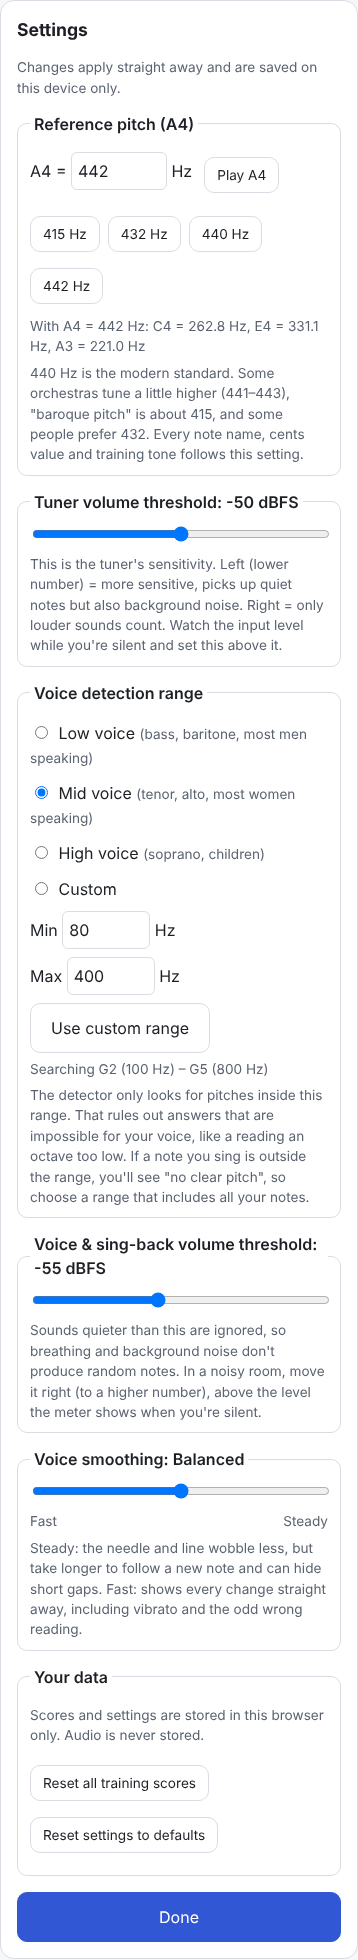
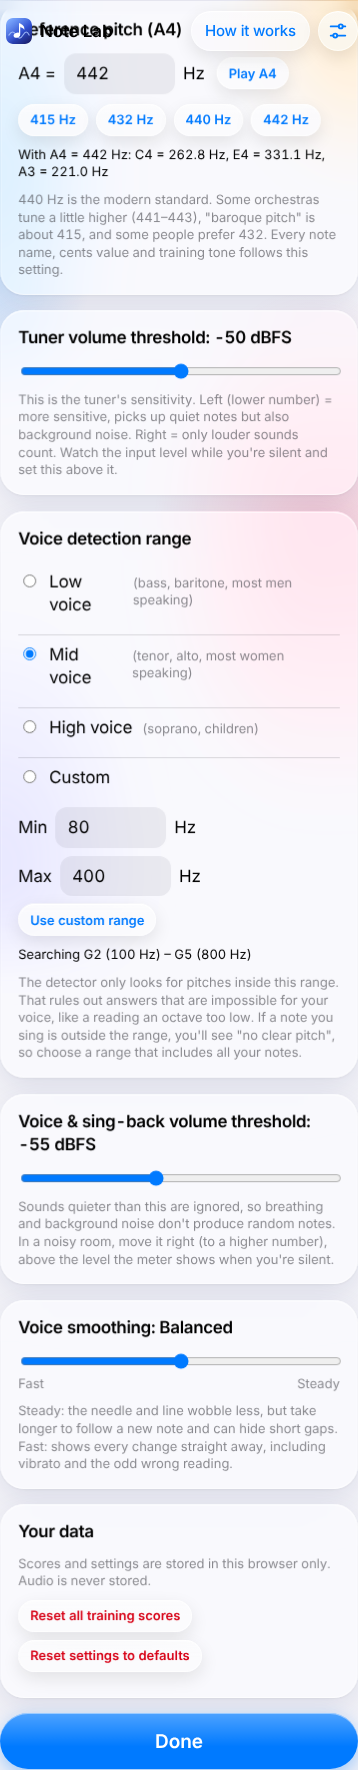
Document the Liquid Glass look and refresh screenshots
Claude-Session: https://claude.ai/code/session_01SxLsZFKHC9uUtv3xK6kA73

diff --git a/README.md b/README.md
@@ -28,6 +28,25 @@ are saved, in your own browser.
 
 *Screenshots from the automated Chromium test, with generated test sounds as the "microphone".*
 
+## Look
+
+Note Lab uses the same **Liquid Glass** theme as the other web apps:
+`css/glass.css` is copied unchanged from msfs-buddy's `src/shared/glass.css`
+(originally from Light Scout), and only Note Lab's own pieces live in
+`css/style.css`.
+
+- **Frosted glass cards** float over a soft, slowly drifting coloured light.
+  Buttons, the segmented control and the top-bar capsules are clearer glass
+  that springs when pressed. The tuner's reading sits on a lit blue pane.
+- **The four modes are in a floating glass tab bar** at the bottom (thumb
+  reach on a phone). Settings and *How it works* are capsules in the top bar,
+  and each page has a large title, like iOS apps.
+- Apple's system colours and font (SF Pro on Apple devices). It follows
+  **light or dark mode**, and honours **Reduce Transparency** (solid surfaces
+  instead of glass) and **Reduce Motion** (no drift or spring).
+- Inspired by Apple's current design language; the tab icons and app icon are
+  this project's own drawings.
+
 ## Getting it running
 
 - **On your computer:** `npm start`, then open <http://localhost:8000>.
@@ -118,8 +137,8 @@ Scores are saved on the device; reset them on the Settings page.
 
 ### Settings and the "How it works" page
 
-**⚙ Settings** (top of the page) holds everything adjustable, saved on the
-device:
+**Settings** (the sliders button, top right) holds everything adjustable,
+saved on the device:
 - **Reference pitch (A4)**, 400–480 Hz: quick choices 415 / 432 / 440 / 442,
   a preview of what that does to other notes, and *Play A4*. Every note name,
   cents value and training tone follows it.
@@ -502,7 +521,8 @@ node tools/make-icons.js            # optional; re-render the icons (needs Playw
 ```
 index.html, how-it-works.html   the app and the beginner's guide
 manifest.json, sw.js, icons/     install + offline
-css/style.css                    all styles (light and dark)
+css/glass.css                    shared Liquid Glass design (copied unchanged from msfs-buddy)
+css/style.css                    Note Lab's own styles on top of it
 js/pitch-math.js                 ★ frequency ↔ note maths (start here)
 js/yin.js, js/smoothing.js, js/level.js, js/pitch-tracker.js   pitch detection pipeline
 js/fft.js, js/spectrum.js        spectrum maths
